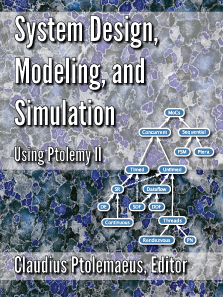
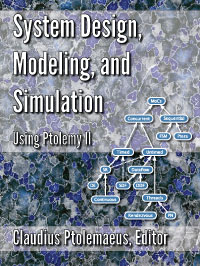
updated book writeup and cover

diff --git a/trunk/ptweb/books/index.htm b/trunk/ptweb/books/index.htm
@@ -18,7 +18,11 @@
     <td><a name="System Design"><img src="Systems/pt_cover_online.png" alt="cover"  width="170"></a>
 <td> 
 <p>
-Claudius Ptolemaeus, Editor <cite><a href="Systems/index.htm">System Design, Modeling, and Simulation using Ptolemy II</a></cite>, <a href="http://Ptolemy.org">Ptolemy.org</a>, 2014.
+Claudius Ptolemaeus, Editor
+<br>
+<cite><a href="Systems/index.htm">System Design, Modeling, and Simulation using Ptolemy  II</a></cite>,
+<br>
+Publisher: <a href="http://Ptolemy.org">Ptolemy.org</a>, 2014.
 <br>
 <br>
 This book is a definitive introduction to models of computation for the design of complex, heterogeneous systems. It has a particular focus on cyber-physical systems, which integrate computing, networking, and physical dynamics. The book captures more than twenty years of experience in the Ptolemy Project at UC Berkeley, which pioneered many design, modeling, and simulation techniques that are now in widespread use. All of the methods covered in the book are realized in the open source Ptolemy II modeling framework and are available for experimentation through links provided in the book.

diff --git a/trunk/ptweb/books/Systems/index.htm b/trunk/ptweb/books/Systems/index.htm
@@ -19,9 +19,13 @@
 	</td>
 	<td> 
 	  <p>
-
-	    Claudius Ptolemaeus, Editor, <cite>System Design, Modeling, and
-	      Simulation Using Ptolemy II</cite>, <a href="http://Ptolemy.org">Ptolemy.org</a>,</p>
+<p>
+Claudius Ptolemaeus, Editor
+<br>
+<cite><a href="Systems/index.htm">System Design, Modeling, and Simulation using Ptolemy  II</a></cite>,
+<br>
+Publisher: <a href="http://Ptolemy.org">Ptolemy.org</a>, 2014.
+<br>
 
 	  <h2>Downloads</h2>
 	  <ul>
